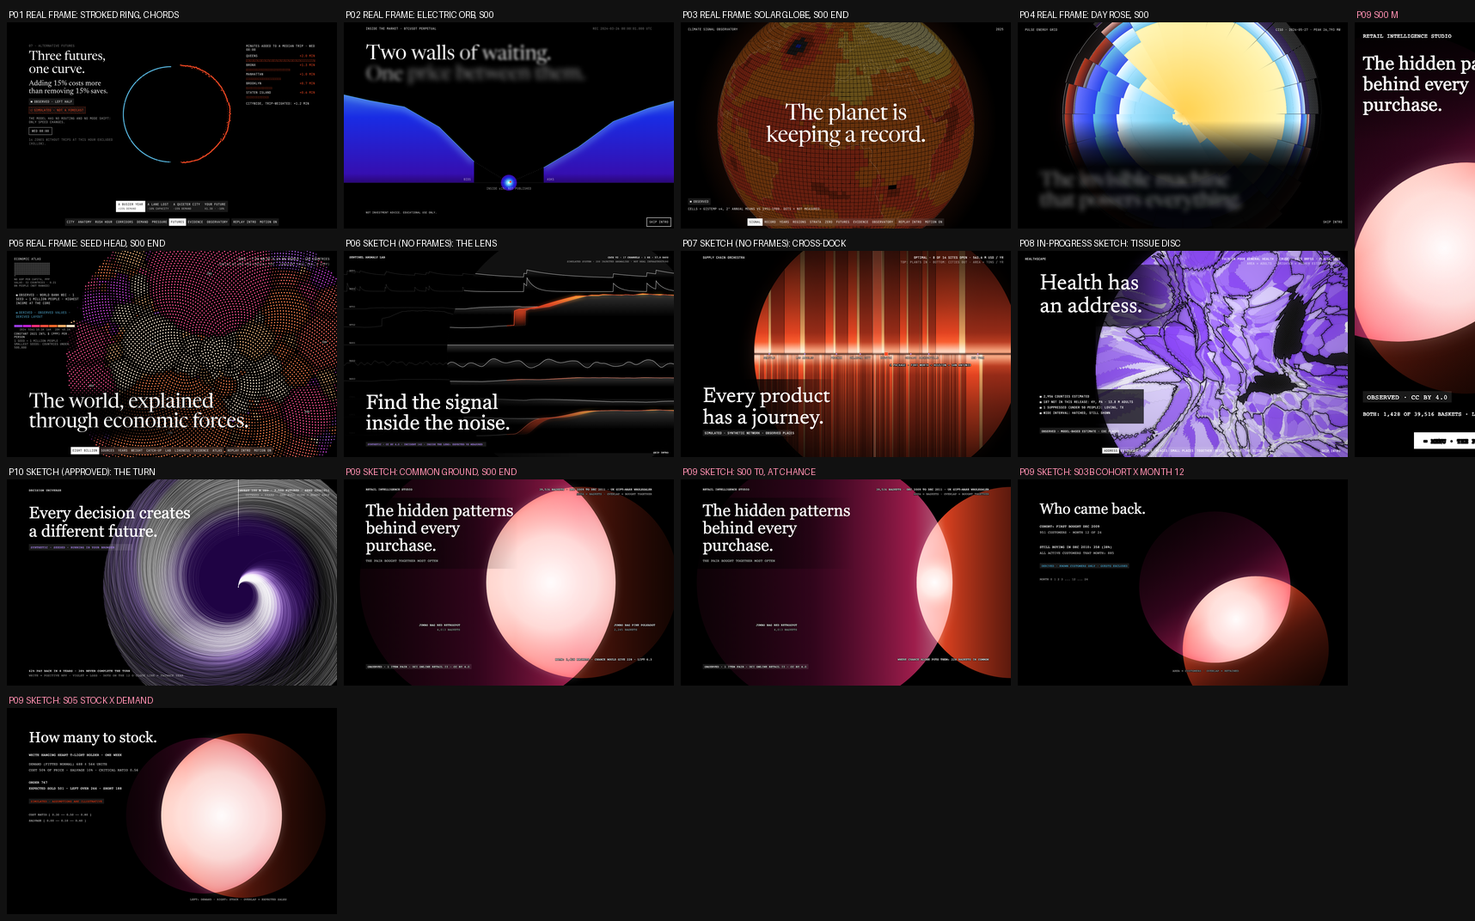
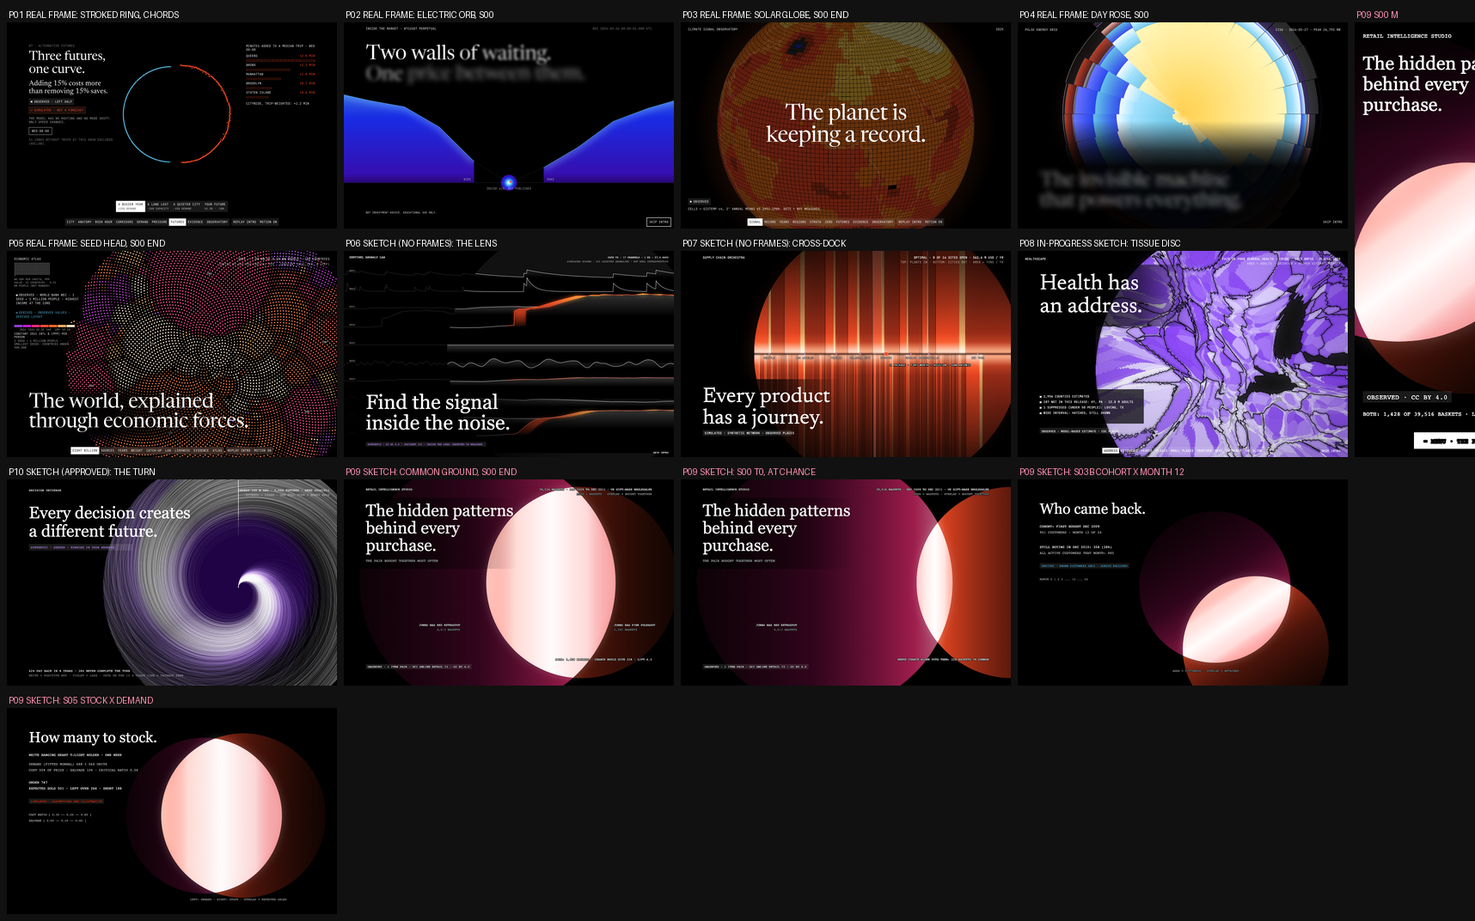
Creative direction: midline-lit overlap re-rendered, identical-set and newsvendor edge states, bindings fixed
Overlap now lit from its midline (no point-centred glow); all sketches and
both sheets re-rendered and the greyscale check re-read. Identical and
near-identical sets designed (S04 R>=1 F>=1, S03b month 0); newsvendor
negative-demand warning as P(D<0) and an ORDER OVERRIDE floor; horizons
1/2/4/8, interval level and hero lift bound to artifacts.

Claude-Session: https://claude.ai/code/session_01KTz1FYH3aWv8awYBpyrJYc

diff --git a/design/sketches/render_pair_sketch.py b/design/sketches/render_pair_sketch.py
@@ -67,14 +67,15 @@ def pair_svg(W, H, ca, ra, rb, overlap, axis, ramps=(ROSE, ORANGE), ghost=None, 
         body.append(f'<circle cx="{gx:.1f}" cy="{gy:.1f}" r="{rb:.1f}" fill="#fff" fill-opacity="0.06"/>')
     g, c = disc("gb", cb[0], cb[1], rb, -ux, -uy, ramps[1], "plus-lighter", alpha=1.35); defs.append(g); body.append(c)
     if glow and d < ra + rb:
-        inner = max(d - rb, -ra)                                          # lens near end along the axis
-        lx = (inner + ra) / 2                                             # lens midpoint along the axis
-        mx, my = ca[0] + ux * lx, ca[1] + uy * lx
-        half = (ra - inner) / 2
+        inner = max(d - rb, -ra)                                          # overlap's near end along the axis
+        p0 = (ca[0] + ux * inner, ca[1] + uy * inner)
+        p1 = (ca[0] + ux * ra, ca[1] + uy * ra)                           # overlap's far end along the axis
+        # luminance peaks on the overlap's midline and falls symmetrically to both arcs (no point-centred glow)
         defs.append(f'<clipPath id="ov"><circle cx="{ca[0]:.1f}" cy="{ca[1]:.1f}" r="{ra:.1f}"/></clipPath>'
-                    f'<radialGradient id="hot" gradientUnits="userSpaceOnUse" cx="{mx:.1f}" cy="{my:.1f}" r="{max(half, 40) * 1.6:.1f}">'
-                    '<stop offset="0" stop-color="#FFFFFF" stop-opacity="0.98"/><stop offset="0.45" stop-color="#FFE9E2" stop-opacity="0.85"/>'
-                    '<stop offset="1" stop-color="#FF9A8A" stop-opacity="0.35"/></radialGradient>'
+                    f'<linearGradient id="hot" gradientUnits="userSpaceOnUse" x1="{p0[0]:.1f}" y1="{p0[1]:.1f}" x2="{p1[0]:.1f}" y2="{p1[1]:.1f}">'
+                    '<stop offset="0" stop-color="#FF9A8A" stop-opacity="0.35"/><stop offset="0.22" stop-color="#FFE9E2" stop-opacity="0.85"/>'
+                    '<stop offset="0.5" stop-color="#FFFFFF" stop-opacity="0.98"/><stop offset="0.78" stop-color="#FFE9E2" stop-opacity="0.85"/>'
+                    '<stop offset="1" stop-color="#FF9A8A" stop-opacity="0.35"/></linearGradient>'
                     '<filter id="bl" x="-50%" y="-50%" width="200%" height="200%"><feGaussianBlur stdDeviation="18"/></filter>')
         body.append(f'<g clip-path="url(#ov)"><circle cx="{cb[0]:.1f}" cy="{cb[1]:.1f}" r="{rb:.1f}" fill="url(#hot)" style="mix-blend-mode:plus-lighter"/></g>')
         body.append(f'<g style="mix-blend-mode:screen" opacity="0.35" filter="url(#bl)"><g clip-path="url(#ov)">'

diff --git a/docs/VISUAL_DESIGN.md b/docs/VISUAL_DESIGN.md
@@ -87,7 +87,7 @@ The giant circular element is **Common Ground**: two sets drawn as two discs of 
 |---|---|
 | **Sets** | Every Common Ground view is one ordered pair (anchor, partner) of sets measured in one unit. The unit is printed in every view: `AREA = BASKETS`, `AREA = CUSTOMERS`, `AREA = UNITS`, `AREA = GBP`. Section 3.4 lists the pair for every scene |
 | **Area** | `area = size × k`, where `k` (px² per unit) is a constant per viewport and per scene, set at the scene's first state by the anchor's radius (3.3). Within a scene, a bigger set is a bigger disc: `r = sqrt(size × k / π)` |
-| **Overlap** | The centre distance `d` is solved so that the circle-circle intersection area equals `shared × k` exactly (bisection on the monotone lens-area function, 1e-9 relative; MathWorld, reference 14). Disjoint sets (`shared = 0`) sit apart with a gap of 0.06 r_partner. Full containment (`shared = size of the smaller`) is **internally tangent**, never concentric: `d = r_anchor − r_partner` |
+| **Overlap** | The centre distance `d` is solved so that the circle-circle intersection area equals `shared × k` exactly (bisection on the monotone lens-area function, 1e-9 relative; MathWorld, reference 14). Disjoint sets (`shared = 0`) sit apart with a gap of 0.06 r_partner. Full containment (`shared = size of the smaller`) is **internally tangent**, never concentric: `d = r_anchor − r_partner`. **Identical sets** (`size_a = size_b = shared`, for example S04 at R ≥ 1 and F ≥ 1) are never drawn as two discs: one disc in the overlap's white light, labelled `SAME {{N}} {{UNIT}}: BOTH CONDITIONS HOLD FOR EVERYONE`. **Near-identical sets** (the smaller set's lone crescent under 2% of its area) are drawn as they are, and the readout adds `ALMOST THE SAME SET`, so a thin crescent is explained, not mistaken for a rendering error |
 | **Chance** | Wherever the two sets come from one population (baskets, customers), the view can show where **chance alone** would place the partner: the overlap independence predicts (`size_a × size_b / population`). The chance position is drawn as a **ghost**: the partner's disc at that distance, 6% white, no edge. The real partner is pulled from the ghost to its real place (interaction 1). The distance between ghost and real is the visible form of lift |
 | **Axis** | The line through the two centres. One axis per viewport and scene (3.3): D horizontal, T and M diagonal (0.6, 0.8). Discs move only **along the axis** (pull, push) or change radius. Nothing moves around a circle |
 | **Light** | Each disc is a **volumetric fill lit from the side that faces its partner** and falling away from it. Stops along the axis, from the far rim to the near rim: 0 at 18%, 0.45 at 30%, 0.85 at 62%, rim at 72% of the role colour's four-stop ramp (colour semantics). The overlap is drawn on top of both in the `lighter` composite with its own **white-hot fill**: luminance is highest along the overlap's midline (the common chord's perpendicular bisector inside the overlap) and falls toward the two arcs, from `#FFFFFF` at 98% to `#FFE9E2` at 85% to `#FF9A8A` at 35% at the arcs. **The overlap's luminance comes from a distance-to-boundary field, never a point-centred radial gradient** (a point gradient read as a lit sphere in the greyscale check, section 2). A static bloom of the overlap only (1/4 resolution, blur 18px, screen at 35%) spills just past its arcs |
@@ -299,7 +299,7 @@ What differs is the metaphor, the giant circular composition, the scene composit
 
 ![P09 vs P02, P03 and P07, colour and greyscale](../design/sketches/p09-pair-check.png)
 
-With hue removed, P03 is a textured sphere with a grid, P07 a disc of vertical stripes with a black horizontal cut, P02 a small dot between walls, and P09 **a bright almond with two dim wings**. They separate on structure alone. One finding: in greyscale, the sketch's point-centred white gradient inside the overlap gives it a slight "lit sphere" read. The binding rule (section 0, Light) therefore lights the overlap from a **distance-to-boundary field along its midline**, which keeps it flat and almond-shaped. The QA open/close sheet repeats this check on real build frames (MOTION_SYSTEM test 15).
+With hue removed, P03 is a textured sphere with a grid, P07 a disc of vertical stripes with a black horizontal cut, P02 a small dot between walls, and P09 **a bright almond with two dim wings**. They separate on structure alone. **One finding changed the rendering.** The first sketches lit the overlap with a point-centred white radial gradient, and in greyscale that read slightly as a lit sphere (P03's territory). The binding rule (section 0, Light) now lights the overlap from its midline, falling off symmetrically to both arcs, and **every committed sketch and both sheets were re-rendered with it** (a linear field along the axis in the SVG sketch, peaked half-way between the overlap's two ends). Re-checked in greyscale: the overlap reads as a flat almond with hard arcs and a brighter vertical midline band, no shading toward a limb. The residual watch item is that band: it must stay a soft falloff inside the almond, never a hard vertical stripe (P07's grammar); the QA check repeats on build frames. The QA open/close sheet repeats this check on real build frames (MOTION_SYSTEM test 15).
 
 **Why A gets 4, not 5, for "never a chart library".** Two overlapping circles are a Venn diagram, and venn.js (reference 7) can draw one. Section 7 fences it: no outlines, no letters, no centred labels, no flat translucent fills, never more than two discs, always giant or at scene size with light that adds to white, and the chance ghost and pull, which no library draws.
 
@@ -410,7 +410,7 @@ There are no spinners and no artificial delays.
 - **Set labels:** anchor name and `{{na}} BASKETS` right-aligned at the anchor's far side (D x 507, y 636); partner name and `{{nb}} BASKETS` left-aligned beyond the partner's near-rim side (D x 1180, y 636).
 - **Bottom-left chip:** `{{tag}} · 1 ITEM PAIR · UCI ONLINE RETAIL II · CC BY 4.0` (tag from `baskets.tags`). The DOI is a link in the chip.
 - **LCP rule.** `h1[data-hero]` is in the DOM from first paint as ghost text, never at opacity 0.
-- **Insight.** The pair of products bought together most often is bought together six times more often than chance would explain.
+- **Insight.** The pair of products bought together most often is bought together `{{hero_pair_lift}}` times more often than chance would explain (DR-1; 6.26 in the CD fixture).
 - **Interactions.**
   - SKIP INTRO is visible from 0ms. Esc, or any wheel, touch or key scroll, completes the intro in 350ms.
   - It plays once per session (`sessionStorage`, in try/catch). REPLAY INTRO is in the nav and in S08.
@@ -484,7 +484,7 @@ There are no spinners and no artificial delays.
 - **Behaviour.**
   - Scroll p 0.04-0.96 steps month m = 0..24 for the selected cohort (default: the first, `cohort_months[0]`). Each m is a published value: `retention[c][m]` and `sizes[c]`, with the active set size from DR-3.
   - The anchor (the cohort, rose) holds its size. The partner (the active customers that month, orange) changes size month to month (seasonal peaks visibly swell it), and the overlap shrinks and dims as the cohort thins: C's graft.
-  - Month 0: the cohort is inside that month's active set (internally tangent): everyone in a cohort bought in month 0.
+  - Month 0: the cohort is inside that month's active set (internally tangent; `retention[c][0]` = 1.0 at `27f17e2`). For the first cohort the two are near-identical (CD fixture: 951 in the cohort, 955 active in December 2009), so month 0 carries `ALMOST THE SAME SET: IN THE FIRST MONTH, NEARLY EVERY ACTIVE CUSTOMER IS NEW`. **The scroll scrub starts at month 1** (p 0.04); month 0 is reachable with ◀ and in reduced motion.
   - UNIT `CUSTOMERS | REVENUE` switches to `revenue_retention` (anchor = the cohort's month-0 revenue; overlap = its month-m revenue; partner = all known-customer revenue that month, DR-3). The discs re-size; the axis holds.
   - `right_censoring` verbatim, uppercased, beside the strip.
 - **Data:** `cohorts.{cohort_months, offsets, sizes, retention, revenue_retention, mean_curve, right_censoring, definition, notes}`, DR-3.
@@ -498,7 +498,7 @@ There are no spinners and no artificial delays.
 
 | p | State |
 |---|---|
-| 0.10 | **Heads.** Anchor = recent customers (R score ≥ 4), partner = frequent customers (F score ≥ 4), unit CUSTOMERS. Overlap = recent and frequent. Ledger: `{{n_rf}} OF {{rfm_customers}} CUSTOMERS ARE BOTH RECENT AND FREQUENT ({{share}})`, from `rfm.grid.r_by_f_customers` summed over the thresholds |
+| 0.10 | **Heads.** Scores are 1-5: R and M by quintile edges of the known customers, F by fixed bins (`rfm.bins`, `rfm.definition.scoring`). Anchor = recent customers (R score ≥ 4), partner = frequent customers (F score ≥ 4), unit CUSTOMERS. Overlap = recent and frequent. Ledger: `{{n_rf}} OF {{rfm_customers}} CUSTOMERS ARE BOTH RECENT AND FREQUENT ({{share}})`, from `rfm.grid.r_by_f_customers` summed over the thresholds |
 | 0.45 | **Pounds** (the transformation). The unit switches to GBP (`rfm.grid.r_by_f_revenue_gbp`): both discs re-size in log space and the overlap swells. The scene's `k` changes **once**, at this step, and the encoding label crossfades `AREA = CUSTOMERS` → `AREA = GBP`. Ledger: `THEY BRING £{{rev_rf}} ({{rev_share}} OF KNOWN-CUSTOMER REVENUE)` |
 | 0.80 | **Name them.** The named segments appear as a mono list under the ledger (`rfm.segments[]`: segment, customers, revenue share, rule), the champions line white: `CHAMPIONS: {{rfm_champions_share_customers}} OF CUSTOMERS, {{rfm_champions_share_revenue}} OF REVENUE` |
 
@@ -508,7 +508,7 @@ There are no spinners and no artificial delays.
 - **Tags.** DERIVED; `rfm.included.excluded_guest_revenue_share` as the guests line; `rfm.definition.scoring` and `.ties` verbatim in the inspector.
 - **Interactions** (interaction 5): R ≥ (1-5), F ≥ (1-5), UNIT `CUSTOMERS | GBP`, PAIR `R x F | R x M | F x M` (needs DR-4).
 - **Transition to S05.** Both discs crossfade to the stock pair (a new unit: units of one item).
-- **States.** A threshold with zero customers on one side: that disc is not drawn; `NO CUSTOMER SCORES {{dim}} ≥ {{t}}`. **Reset:** R ≥ 4, F ≥ 4, customers.
+- **States.** A threshold with zero customers on one side: that disc is not drawn; `NO CUSTOMER SCORES {{dim}} ≥ {{t}}`. R ≥ 1 and F ≥ 1 together: the identical-set state (section 0). **Reset:** R ≥ 4, F ≥ 4, customers.
 
 #### S05 Experiment: how many to stock (300vh; the stage stays pinned until 1)
 
@@ -519,8 +519,8 @@ There are no spinners and no artificial delays.
 | p | State |
 |---|---|
 | 0.08 | The default item at the default assumptions: `q*` at the critical fractile; ledger `ORDER {{q}} · EXPECTED SOLD {{sales}} · LEFT OVER {{leftover}} · SHORT {{shortage}} · CRITICAL RATIO {{cf}}` |
-| 0.30 | **Cheaper to make** (cost ratio at its range minimum): the partner grows; the leftover crescent grows, the shortage crescent shrinks |
-| 0.52 | **Dearer to make** (cost ratio at its range maximum): the reverse |
+| 0.30 | **Cheaper to make** (cost ratio at its range minimum, `assumptions[cost_ratio].range[0]`, 0.3 at `27f17e2`): the partner grows; the leftover crescent grows, the shortage crescent shrinks |
+| 0.52 | **Dearer to make** (cost ratio at its range maximum, `range[1]`, 0.9): the reverse |
 | 0.74 | **The policy check:** `newsvendor_scenarios.policy_check`: `OVER {{weeks}} WEEKS, ORDERING AT THE NEWSVENDOR QUANTITY EARNS {{uplift_pct}} MORE THAN ORDERING THE MEAN · {{caveat}}` |
 | 0.86-1 | Free: every control live |
 
@@ -529,7 +529,11 @@ There are no spinners and no artificial delays.
 - **Tags.** SIMULATED; `newsvendor_params.disclaimer` and `facts.not_advice` verbatim, uppercased, always visible.
 - **Interactions** (interaction 6): ITEM, COST RATIO and SALVAGE RATIO (sliders within `assumptions[].range`), MODEL, ORDER OVERRIDE (a slider for `q`; the ledger then shows the expected profit against `q*`).
 - **Transition to S06.** The partner recolours to periwinkle as the scene becomes the forecast pair (800ms).
-- **States.** **Disabled:** EMPIRICAL is disabled for an item with fewer than 26 sample weeks (`items[].weeks`), with that reason. A normal fit with mass below zero (sd > mean) prints `NORMAL FIT ALLOWS NEGATIVE DEMAND · EMPIRICAL IS SAFER HERE` (CD fixture: the top item has mean 688 and SD 564, so this will occur). **Reset:** the default item and assumptions, NORMAL.
+- **States.**
+  - **Disabled:** EMPIRICAL is disabled for an item with fewer than 26 sample weeks (`items[].weeks`; 26 is a **design constant**, half a year of weeks; every item at `27f17e2` has 52, so it does not trigger today).
+  - **Negative-demand warning:** when the normal fit puts more than 5% of its mass below zero, `P(D < 0) = Φ(−μ / σ)` from `items[].mean_weekly_units` and `sd_weekly_units`, the ledger prints `NORMAL FIT PUTS {{p}} OF DEMAND BELOW ZERO · EMPIRICAL IS SAFER HERE` (5% is a design constant). At `27f17e2`, `sku:84077` (mean 971, SD 935) gives about 15%; the family series stay under 1%.
+  - **ORDER OVERRIDE floor:** under NORMAL, a small `q` makes `E[min(D, q)]` negative, which has no geometry. The slider's minimum is `q_floor`, the smallest `q` with expected sales ≥ 0 (solved by bisection on the published formula); under EMPIRICAL the minimum is 0. A disc is never drawn with a negative area.
+  - **Reset:** the default item and assumptions (`assumptions[].value`: cost ratio 0.6, salvage ratio 0.2 at `27f17e2`), NORMAL. The S05 sketch uses 0.5 and 0.1 (drawn before the artifact existed); the build uses the published defaults.
 
 #### S06 Consequences: what will sell, and who will come back (300vh)
 
@@ -539,8 +543,8 @@ Two PREDICTED pairs in sequence. Both use the periwinkle partner with the interv
 |---|---|
 | 0.06 | **The forecast pair.** Anchor = actual units over the backtest (all series, horizon 1), partner = the best model's forecast units, overlap = Σ min(actual, forecast). Ledger: `WAPE {{wape}} · BIAS {{bias}} · SKILL VS SEASONAL NAIVE {{skill}} · {{origins}} ORIGINS` (`backtest.pooled`, DR-5 for the areas) |
 | 0.22 | **The baseline.** The partner swaps to seasonal-naive (the same actual). Whichever has the larger crescents is the worse forecast, visibly. `backtest.verdict` verbatim |
-| 0.38 | **Horizon 4.** The crescents grow with the horizon (or they don't: the data decides) |
-| 0.54 | **One series.** `forecast.series[0]` (a family): the soft edge is its 80% interval for the next week (`lo`, `hi`); `interval_coverage`: `{{nominal}} INTERVAL COVERED {{empirical}} OF {{n}} BACKTEST WEEKS` |
+| 0.38 | **Horizon 8** (the last of `backtest.design.horizons` = 1, 2, 4, 8). The crescents grow with the horizon (or they don't: the data decides) |
+| 0.54 | **One series.** `forecast.series[0]` (a family): the soft edge is its `{{interval.level}}` interval for the next week (`forecast.interval.level` = 0.8, `lo`, `hi`, method `forecast.interval.method`); `interval_coverage`: `{{nominal}} INTERVAL COVERED {{empirical}} OF {{n}} BACKTEST WEEKS` |
 | 0.70 | **The CLV pair.** Anchor = actual holdout repeat purchases (`clv.holdout.actual_repeats_total`), partner = BG/NBD predicted (`predicted_repeats_total`), overlap = Σ over deciles of min(actual, predicted) (`clv.deciles`). Ledger: `{{holdout_weeks}}-WEEK HOLDOUT · TOTAL ERROR {{total_error_pct}} · DECILE MAPE {{mape}} · CUSTOMER MAE {{mae}} VS NO-MODEL {{baseline_mae}}` |
 | 0.86 | **The baseline again.** The partner swaps to the no-model baseline (DR-6) |
 
@@ -548,7 +552,7 @@ Two PREDICTED pairs in sequence. Both use the periwinkle partner with the interv
 - **Data:** `backtest.{pooled, win_rate, verdict, interval_coverage, design, models}`, `forecast.series`, `clv.{holdout, deciles, by_frequency, calibration, final_fit, limitations}`, `facts.forecast_*`, `facts.clv_*`, DR-5, DR-6.
 - **Insight.** The forecast beats seasonal-naive on {{forecast_win_rate}} of series, not all; the CLV model's predicted repeats land within {{clv_total_error_pct}} of what happened. Both checks are on screen, and both can lose.
 - **Tags.** PREDICTED; the check beside every number; `clv.limitations[0]` verbatim.
-- **Interactions** (interaction 7): MODEL (`backtest.models[].id`), HORIZON (1-4), SCOPE `ALL | FAMILY | SKU`, DECILE (1-10).
+- **Interactions** (interaction 7): MODEL (`backtest.models[].id`), HORIZON (`backtest.design.horizons`: 1, 2, 4, 8), SCOPE `ALL | FAMILY | SKU`, DECILE (1-10).
 - **Transition to S07.** The pair dims to 15% and moves to G1 behind the argument stack.
 - **States.** A model with `n = 0` for a scope: disabled with `NOT EVALUATED AT THIS SCOPE`. **Reset:** best model, horizon 1, all.
 
@@ -692,7 +696,7 @@ There are eleven interactions. Six are driven by visitor-set analytical paramete
 ### 7. What Will Sell (S06) [P]
 
 - **Inputs:** scroll steps, MODEL, HORIZON, SCOPE, DECILE.
-- **State:** `{model, horizon: 1..4, scope: 'all' | 'family' | 'sku', decile: 1..10 | null}`.
+- **State:** `{model, horizon: 1 | 2 | 4 | 8, scope: 'all' | 'family' | 'sku', decile: 1..10 | null}`.
 - **Data:** `backtest`, `forecast`, `clv`, DR-5, DR-6.
 - **Visual output:** the forecast pair (and its baseline), the interval soft edge, the CLV pair by decile.
 - **Keyboard:** radio groups and spinbuttons.
@@ -830,7 +834,7 @@ Rules:
 | DR-2 | **Rule steps.** `baskets.showcase`: an ordered list of 6 rule indices: the 3 highest-lift rules **with `variant_of_same_product` false** then the 3 highest-count rules, the hero pair excluded, no rule twice; plus the rule that produced it. Also add `variant_of_same_product` to `baskets.schema.json` (present in the artifact at `27f17e2`, absent from the schema), and publish the edge for the DR-1 hero pair so THE COUNTER can reach it | S03a's steps are data-chosen, not designer-chosen | tiny |
 | DR-3 | **Active set per month.** In `cohorts.json`: `active_customers[]` (known customers with at least one sale line in each `cohort_months` calendar month, same definition as cohort activity) and `active_revenue_gbp[]` (their net revenue that month), aligned to `cohort_months`. Also confirm `overview.series.active_customers` uses the same definition, or say how it differs | The partner disc of every cohort pair (S03b) | 2 x 25 numbers |
 | DR-4 | **RFM grids for every pair.** `rfm.grid.r_by_m_customers`, `r_by_m_revenue_gbp`, `f_by_m_customers`, `f_by_m_revenue_gbp` (5 x 5 each), same scoring as `r_by_f` | S04 PAIR control and THE COUNTER | 100 numbers |
-| DR-5 | **Backtest area totals.** Per `backtest.pooled` row: `actual_total`, `forecast_total`, `over_total` (Σ max(f − a, 0)), `under_total` (Σ max(a − f, 0)); and the exact definition of `bias_pct` in `backtest.design` | S06 forecast pair areas must be exact, not recovered from rounded percentages | about 4 numbers per pooled row |
+| DR-5 | **Backtest area totals.** Per `backtest.pooled` row: `actual_total`, `forecast_total`, `over_total` (Σ max(f − a, 0)), `under_total` (Σ max(a − f, 0)); and the sign convention of `e` in `backtest.design.metrics` ("bias = sum e / sum actual" does not say whether e = f − a or a − f) | S06 forecast pair areas must be exact, not recovered from rounded percentages | about 4 numbers per pooled row |
 | DR-6 | **CLV overlap and baseline.** `clv.holdout.overlap_customer_sum` (Σ over customers of min(predicted_i, actual_i)), `baseline_predicted_total`, `baseline_overlap_customer_sum`; and per decile the baseline's predicted value | S06 CLV pair at customer level, and its no-model baseline | tiny |
 | DR-7 | **Newsvendor expectations in scenarios.** Add `expected_sales`, `expected_leftover`, `expected_shortage` (normal and empirical) to each `newsvendor_scenarios.scenarios[]` row; ensure `newsvendor_vectors` covers every item at the default assumptions for both models | A precomputed fallback if the client maths fails a guard; parity for every default state | about 6 numbers per scenario row |
 | DR-8 | **Refund split.** In `reconciliation.refunds`: `matched_value_gbp`, `unmatched_no_prior_sale_qty`, `unmatched_no_prior_sale_value_gbp`, `unmatched_no_customer_qty`, `unmatched_no_customer_value_gbp`, `over_refund_qty`; and `sale_units` (or confirm `classes[sale].units`) | S02 card 2's pair: the partner's lone crescent must be split by reason | tiny |

diff --git a/docs/MOTION_SYSTEM.md b/docs/MOTION_SYSTEM.md
@@ -196,7 +196,7 @@ Format for each entry: **Trigger**, **Initial → End**, **Duration / Easing**, 
 
 ### 5.5 Coming Back: the month scrub (S03b)
 
-- **Trigger:** scroll steps p 0.04-0.96 (25 steps), MONTH ◀ ▶, COHORT, UNIT.
+- **Trigger:** scroll steps p 0.04-0.96 (months 1-24; month 0 by ◀ only, VISUAL_DESIGN 3.4 S03b), MONTH ◀ ▶, COHORT, UNIT.
 - **Month step:** the partner (active set) re-sizes and the overlap re-solves (1200ms on scroll, 800ms on a control, `--ease-smooth`). The anchor (the cohort) holds. The month strip's active tick moves (200ms).
 - **Censored month:** the partner crossfades to hatch (600ms); the overlap fades out (600ms); the ledger reads `NOT YET OBSERVED`.
 - **Cohort change:** both discs re-size together (800ms); the month holds if published for the new cohort, else clamps to its last month with a 200ms label flash of `MONTH {{m}} IS NOT PUBLISHED FOR THIS COHORT`.
@@ -367,7 +367,7 @@ Each artifact is under 400 KB gzip by contract (`DATA_CONTRACTS.md`); the fronte
 | 2 | Area rule at every rest state listed in section 2 (debug hook) | Playwright |
 | 3 | S00: SKIP visible at 100ms; nav within 400ms of SKIP; LCP element `h1[data-hero]`; both cusps in frame at the end on D and M; anchor diameter ≥ 1.2 x height (D) | Playwright + Lighthouse |
 | 4 | No value in transit: 10 sampled frames of a rule step and a month step show only old or new ledger numbers | Playwright |
-| 5 | Never concentric: across a scripted pass of every scene, the debug hook's `d` is never below `|rA − rB| − 1e-9` and never 0 | Playwright |
+| 5 | Never concentric: across a scripted pass of every scene, the debug hook's `d` is never below `|rA − rB| − 1e-9` and never 0; S04 at R ≥ 1 and F ≥ 1 draws **one** disc with the `SAME` label (identical sets), never two concentric discs; S03b month 0 of the first cohort shows `ALMOST THE SAME SET`; S05 ORDER OVERRIDE at its minimum gives expected sales ≥ 0 | Playwright |
 | 6 | Sticky scenes release at the right point; reverse and rapid scroll; direct jumps land at p = 0 states; Back/Forward | Playwright |
 | 7 | Resize mid-scene (D → M → D at S03b month 12) redraws the same state with the new `k` | Playwright |
 | 8 | Reduced motion: no pinned stage; intro end state with the ghost; every control works | Playwright (emulated media) |
